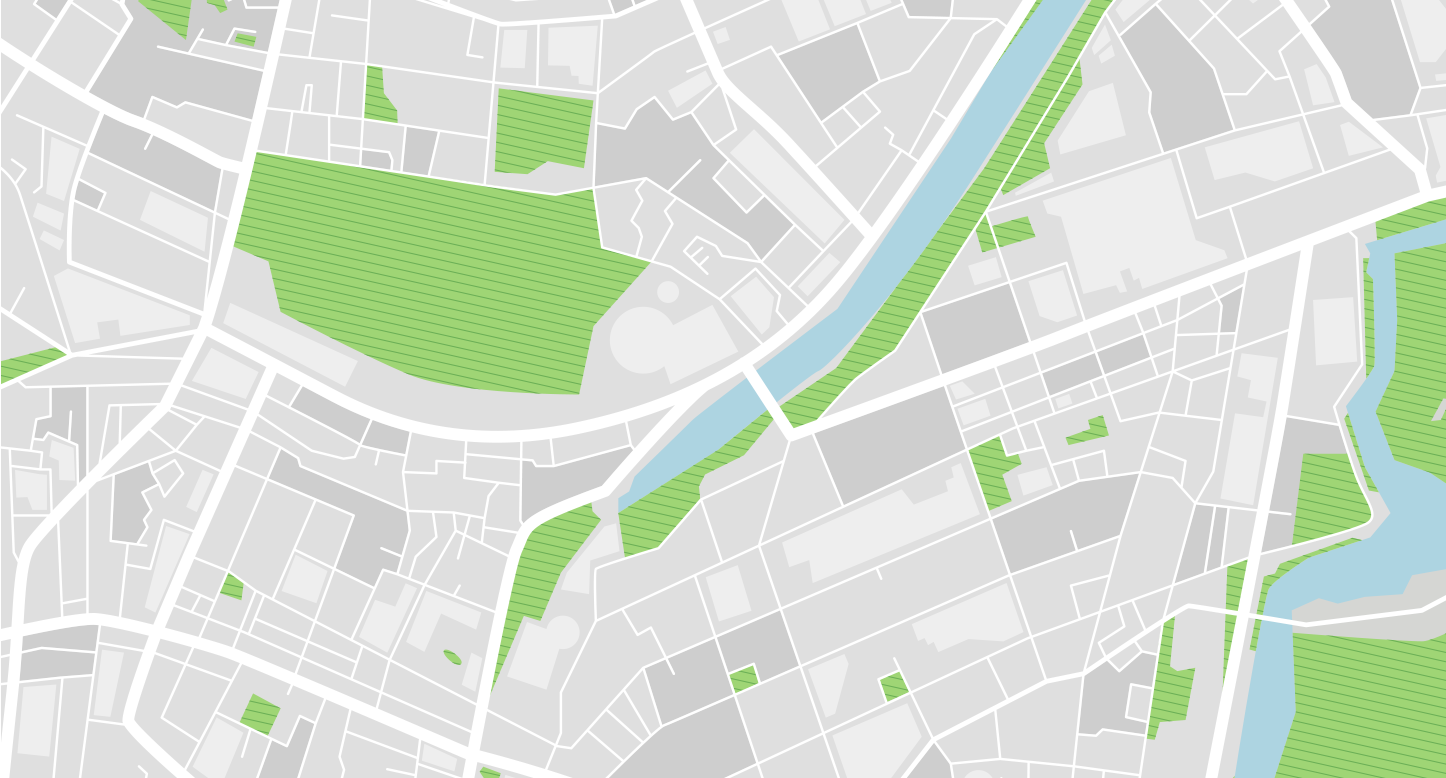
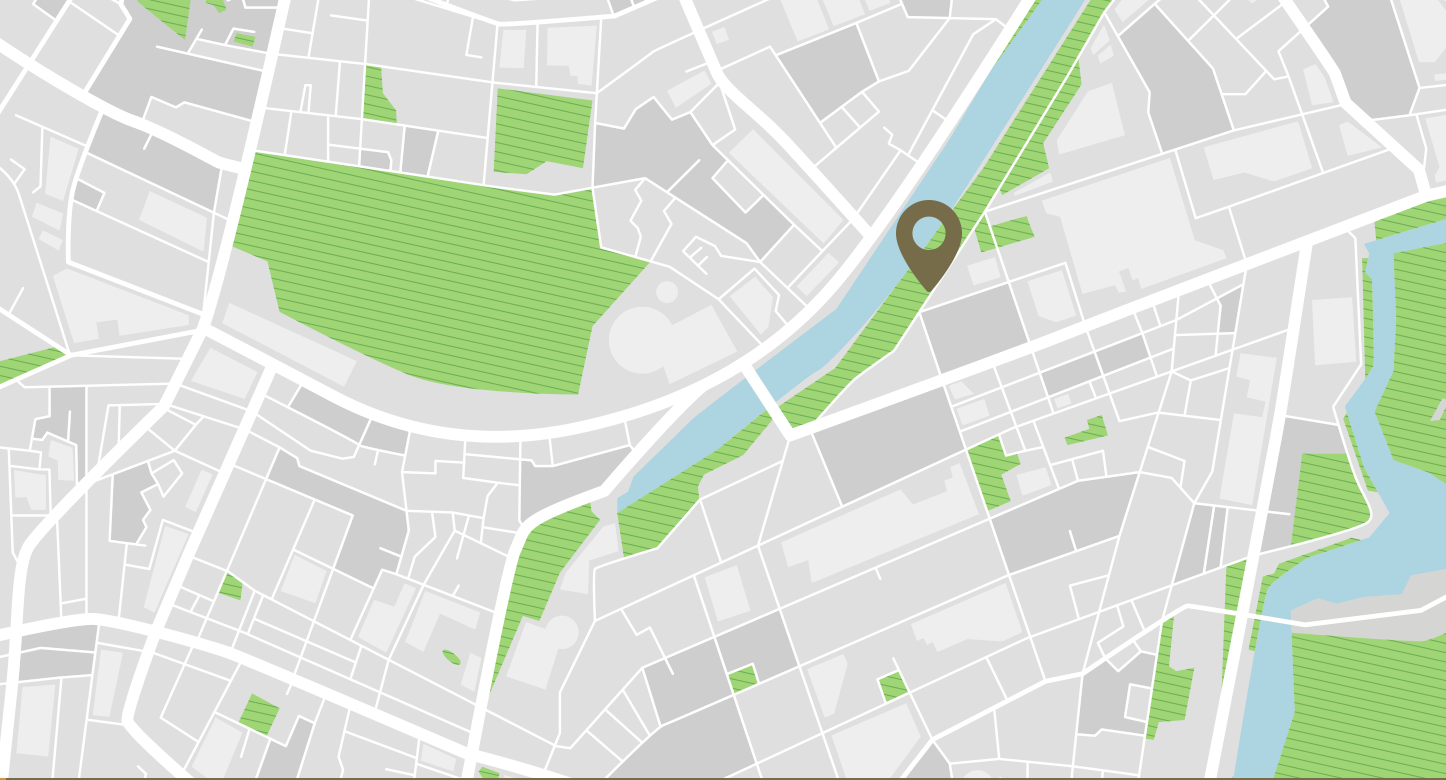
adaptation mapBg

diff --git a/assets/styles/cocotes.css b/assets/styles/cocotes.css
@@ -6,3 +6,12 @@
     background-size: cover;
     background-repeat: no-repeat;
 }
+
+/* responsive */
+
+@media screen and ( max-width: 1450px){
+    #cocotes{
+        min-width: 100%;
+        min-height: auto;
+    }
+}

diff --git a/index.html b/index.html
@@ -141,7 +141,6 @@
 
         <section class="mh-100vh" id="mapBg">
 
-            <img src="assets/img/icons/localisation.gif" alt="">
             <div id="adress">
 
                 <div class="colorText" id="adressP">

diff --git a/assets/styles/map.css b/assets/styles/map.css
@@ -34,11 +34,3 @@
     justify-content: space-between;
 }
 
-#mapBg img{
-    position: fixed;
-    width: 5%;
-    position: absolute;
-    top: 15%;
-    left: 66%;
-
-}
